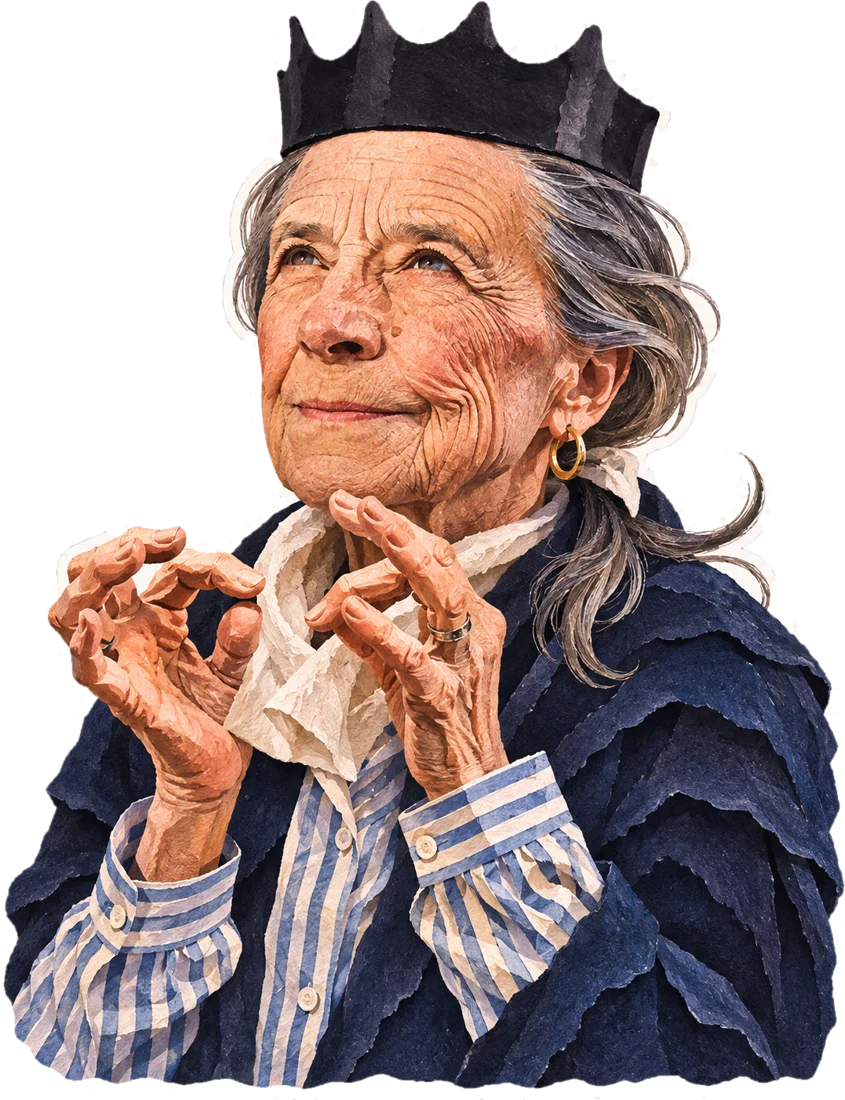
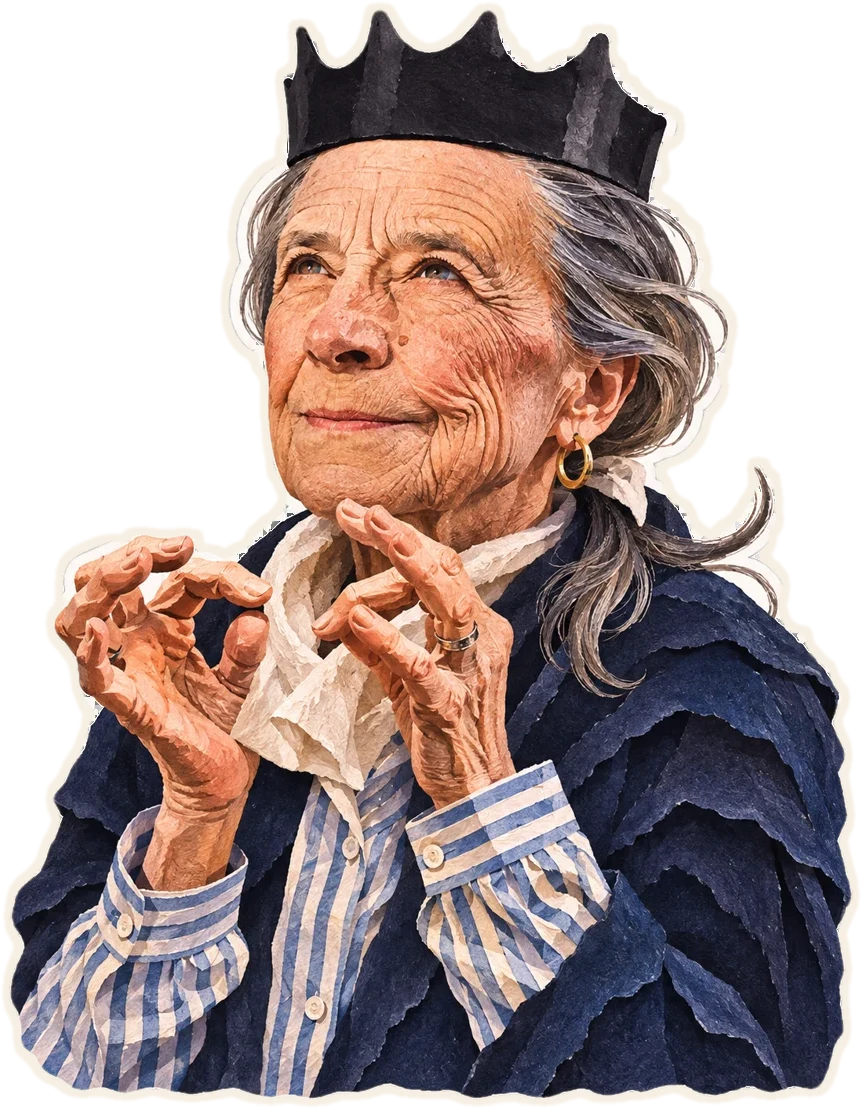
Бумажный театр: ровная кайма у Буржуа

Changed region(s): [[0.0, 0.0, 1.0, 1.0], [0.3385, 0.0, 0.4615, 0.0618]]

diff --git a/paper.html b/paper.html
@@ -175,7 +175,7 @@ const SCENES = [
     html: '<div class="cap top center" style="left:440px; right:440px"><p class="quote r">Повторение становится творчеством, когда его кто-то принимает</p></div>' +
       '<div class="cap center" style="left:300px; right:300px"><div class="labels r step">' + lab('Повторение', 'старая пьеса, которую играем, не помня текста') + lab('Другой принимает', 'и не играет по старым нотам') + lab('Игра', 'терапия там, где встречаются две игры') + lab('Творчество', 'призраки становятся предками') + '</div></div>' },
   { label: 'I. Буржуа', back: P + '06d-back.webp', alt: 'Паучиха «Маман» Луизы Буржуа на набережной, справа портрет Буржуа в бумажной короне',
-    figs: [{ src: P + '06e-fig.webp', left: 71, top: 50, width: 22, d: .3, enter: 'right', at: 1.2, cut: true }],
+    figs: [{ src: P + '06e-fig.webp', left: 71, top: 50, width: 22, d: .3, enter: 'right', at: 1.2 }],
     html: '<div class="cap top left" style="width:34%; left:110px; top:90px"><p class="quote r" style="--d:.6s">«Искусство — гарантия душевного здоровья»</p><p class="punch r" style="--d:1.2s">— Луиза Буржуа</p></div>' +
       '<div class="cap left" style="width:30%; left:110px; bottom:110px"><div class="labels r" style="--d:2s">' + lab('Что она лечила', 'Отец десять лет жил с гувернанткой дочери прямо в семейном доме, а мать терпела. Буржуа всю жизнь переводила в скульптуру ревность, гнев и страх быть брошенной. Паук для неё — образ матери: та реставрировала гобелены, и паук, как она, терпеливо плетёт и чинит.') + '</div><p class="punch r step" style="color:#E8DDC9; margin-top:22px">Живое произведение — это обращение.</p></div>' },
   { label: 'II. Ребёнок, который не пахнет', back: P + '07-back.webp', alt: 'Монастырские ворота: кормилица отдаёт младенца, монах принюхивается',
